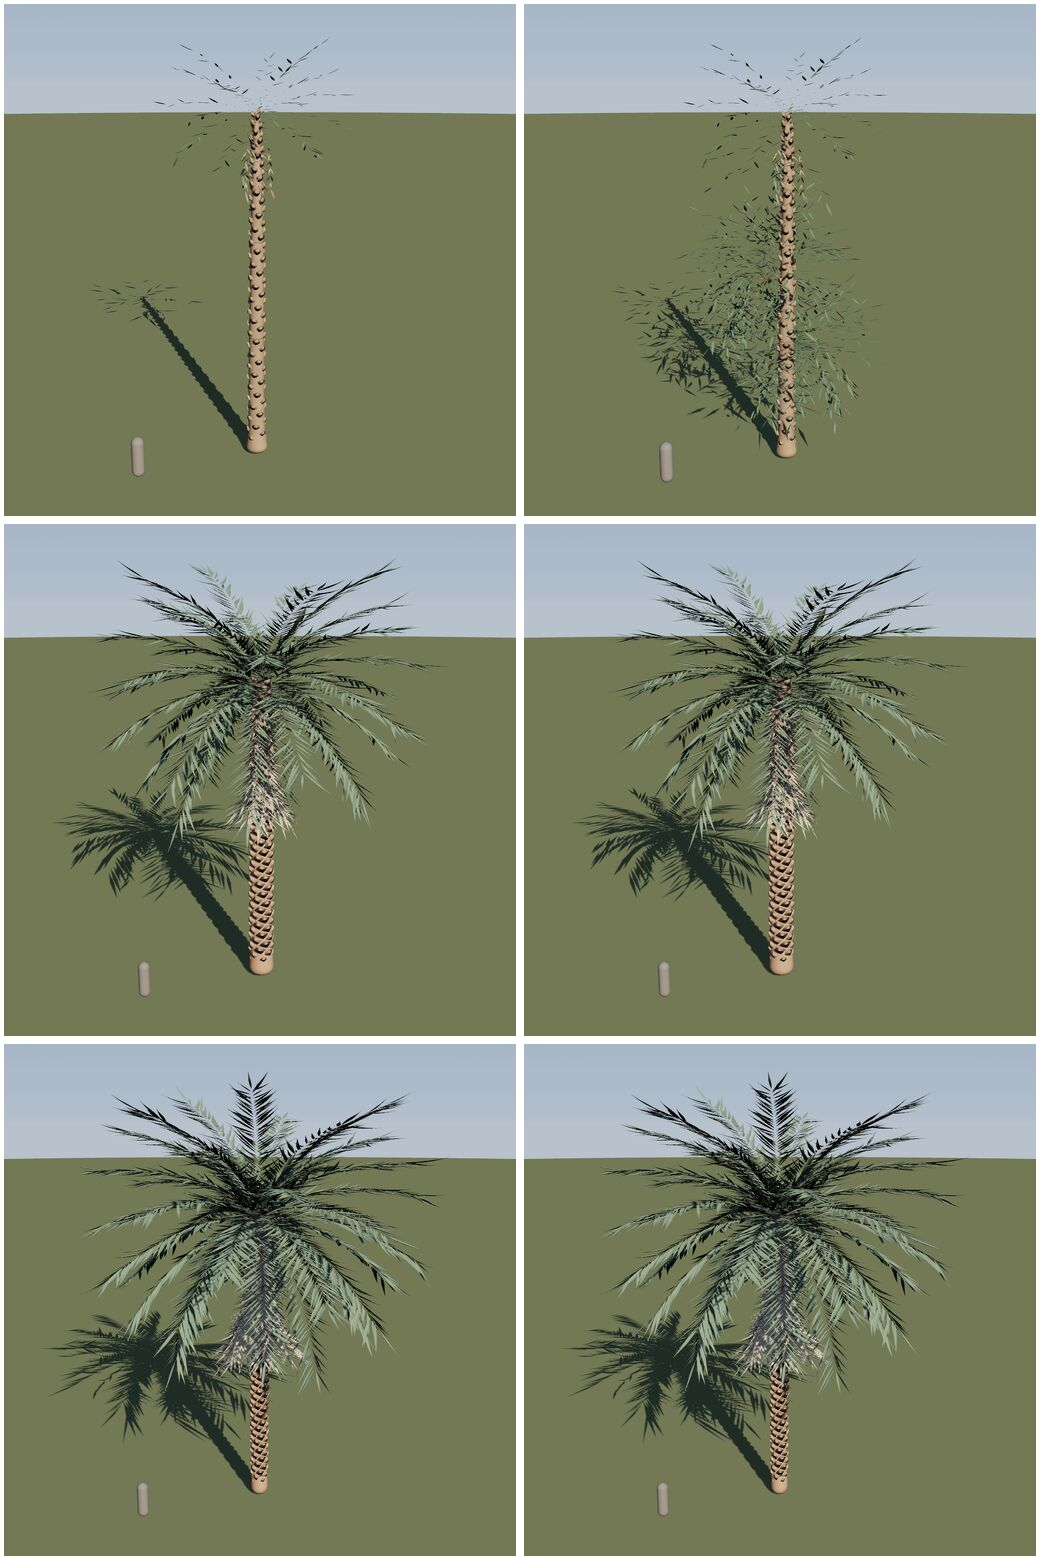
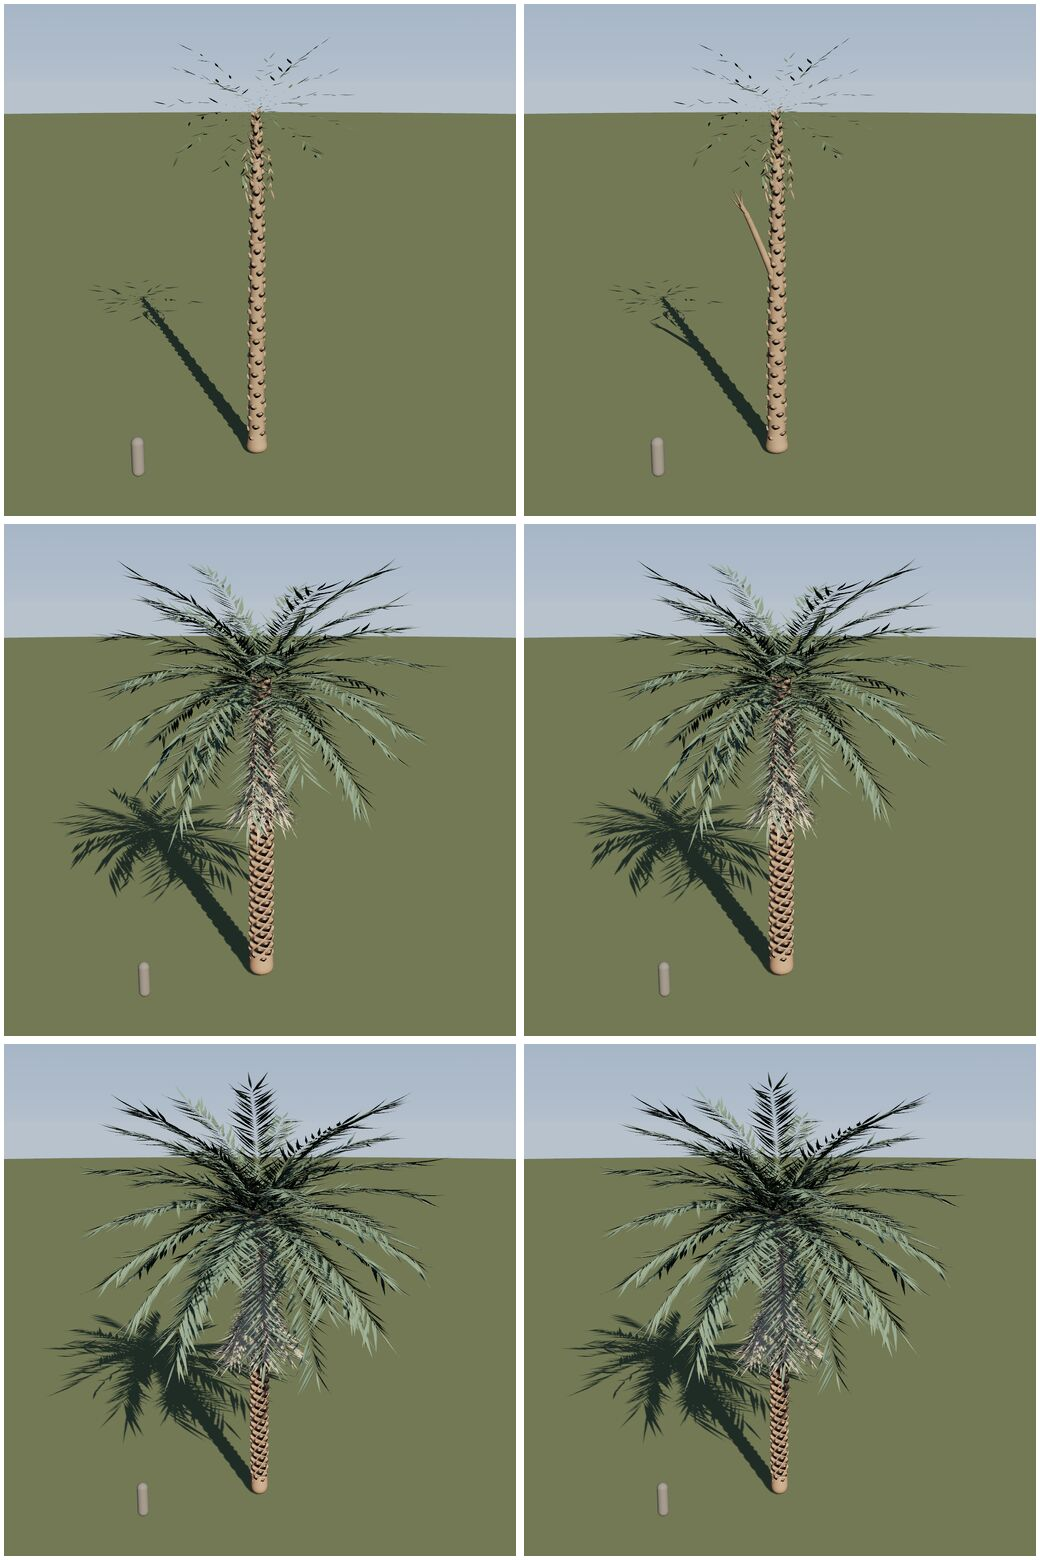
test: the host's rulings on three walk properties under fn-299 (2026-10-21)
The walk to the palm keeps its middle within its ends (superseding the
smaller-than-either clause). The grown-count example moves to t = 0.8,
where a scan finds it binding. The oak-to-birch exception at 80 is
refreshed to the measured 3,961,379 kept.

Task: fn-299-a-walk-frame-grows-within-its-ends.3

diff --git a/crates/telperion-core/tests/space_walks.rs b/crates/telperion-core/tests/space_walks.rs
@@ -119,19 +119,21 @@ fn a_walk_between_branching_species_keeps_its_ends_size_at_40_and_80() {
 }
 
 /// Host decision (2026-10-08, option A): kept phytomers do not bound grown
-/// ones, since a blend can shed a larger share than either end. Three
-/// quarters of the way from the beech to the spruce at 80, the grown count
-/// binds while the kept one is 5 % under the ends' mean. (Before fn-231 the
+/// ones, since a blend can shed a larger share than either end. Four
+/// fifths of the way from the beech to the spruce at 80, the grown count
+/// binds while the kept one is 1.4 % under the ends' mean. (Before fn-231 the
 /// case was the oak to the spruce, predicted to grow 21.7M phytomers sized
-/// on kept alone; the continuous walk puts that point under its ends.)
+/// on kept alone; the continuous walk puts that point under its ends. Until
+/// fn-299's timing rule (host, 2026-10-21) it was t = 0.75, where the grown
+/// share is now 0.998; a scan in steps of 0.05 finds it binding at 0.8.)
 #[test]
 fn the_grown_count_binds_where_a_blend_sheds_more_than_its_ends() {
     let (a, b) = (
         at(Preset::EuropeanBeech, 80.0),
         at(Preset::NorwaySpruce, 80.0),
     );
-    let walked = blend::families(&a, &b, 0.75).unwrap();
-    let [kept_share, grown_share] = sizes(species(&walked), species(&a), species(&b), 0.75, 80);
+    let walked = blend::families(&a, &b, 0.8).unwrap();
+    let [kept_share, grown_share] = sizes(species(&walked), species(&a), species(&b), 0.8, 80);
     assert!(
         (grown_share - 1.0).abs() < 1e-9 && kept_share < 0.99,
         "{kept_share} {grown_share}"
@@ -219,8 +221,10 @@ fn converges(p: Preset, q: Preset, age: u32) -> Vec<String> {
 
 /// Host decision 1 (2026-10-08): the factor only shrinks. A walk to the
 /// date palm, whose size is fronds and not laterals, is predicted below
-/// its ends' mean and keeps the engine's walk as it is; at its middle it is
-/// smaller than either end, a known property and not a defect.
+/// its ends' mean and keeps the engine's walk as it is. Its middle keeps a
+/// count within its ends' (fn-299, host 2026-10-21), which supersedes the
+/// old clause that the middle was smaller than either end: that was the
+/// overshoot below the ends fn-299 removes.
 #[test]
 fn a_walk_to_the_palm_is_never_grown_to_its_ends_size() {
     let age = 40;
@@ -233,7 +237,14 @@ fn a_walk_to_the_palm_is_never_grown_to_its_ends_size() {
     }
     let beech = at(Preset::EuropeanBeech, 40.0);
     let middle = kept(species(&blend::families(&beech, &palm, 0.5).unwrap()), age);
-    assert!(middle < kept(species(&palm), age), "{middle}");
+    let ends = [kept(species(&beech), age), kept(species(&palm), age)];
+    println!("beech {} middle {middle} palm {}", ends[0], ends[1]);
+    assert!(
+        ends[0].min(ends[1]) <= middle && middle <= ends[0].max(ends[1]),
+        "beech {} middle {middle} palm {}",
+        ends[0],
+        ends[1]
+    );
 }
 
 /// Host decision 2: a two-way walk is the N = 2 point, and weights that name

diff --git a/crates/telperion-core/tests/walk_sizes.rs b/crates/telperion-core/tests/walk_sizes.rs
@@ -51,7 +51,9 @@ const EXCEPTIONS: [Exception; 8] = [
         seed: 7,
         t: 0.01,
         band: [(1_423_308.0, 3_280_249.0), (7_998_959.0, 16_488_620.0)],
-        measured: [3_944_536.0, 18_138_622.0],
+        // Kept re-measured after fn-299's timing rule moved it from
+        // 3,944,536 (host, 2026-10-21).
+        measured: [3_961_379.0, 18_138_622.0],
     },
     Exception {
         walk: (Oak, Ordinary),

diff --git a/.flow/evidence/fn-299-a-walk-frame-grows-within-its-ends/T3.md b/.flow/evidence/fn-299-a-walk-frame-grows-within-its-ends/T3.md
@@ -44,3 +44,20 @@ These suites are green: `telperion-space` lib (102), `blend_reach` (5), `walks` 
 - `space_walks::a_walk_to_the_palm_is_never_grown_to_its_ends_size` now fails on its second assertion (line 236). Beech to palm at 40, t = 0.5, keeps 766.35 phytomers, no longer under the palm's own kept count. The test prints only the frame's count, not the palm's. Its first assertion, that the oak-to-palm frame stays unscaled, passes again.
 - `space_walks::the_grown_count_binds_where_a_blend_sheds_more_than_its_ends`: at beech to spruce at 80 and t = 0.75 the grown share is 0.99818. The test requires 1 within 1e-9, and the kept share is 1.0000. Under full rule B it was 0.949.
 - `walk_sizes::the_teaser_frame_fits_and_the_named_exceptions_grow_no_further_out`: (Oak, Birch) at 80, seed 7, t = 0.01 keeps 3,961,379 phytomers. The base measured 3,944,536, so the frame keeps 16,843 more (+0.43 %) and sits further above the band's top of 3,280,249. Under full rule B it was 3,953,617.
+
+## After the host's rulings on failures 4 to 6 (measured, 2026-10-21 01:17)
+
+- **Failure 4.** The test keeps its first assertion (the walk to the palm is not resized) and now checks that the middle lies within its ends. Beech at 40 keeps 180,095.85, the middle 766.35 and the palm 480, so the middle lies within its ends.
+- **Failure 5.** A scan of beech to spruce at 80 in steps of 0.05 (`raw/scan.log`, scratch `raw/fn299_scan.rs.scratch`, predictions only) finds the grown count binding at t = 0.80 (kept 0.986359, grown 1 within 1e-9) and at t = 0.85 (kept 0.988646). The example moves to t = 0.80. Spruce to the ordinary tree binds at every grid point.
+- **Failure 6.** The (Oak, Birch) exception at 80, seed 7, t = 0.01 is refreshed to the measured 3,961,379 kept, with fn-299 named in its comment.
+- **Focused suites, all green** (`raw/final-focused.log`): `blend_reach` 5, `walks` 12, `catalogue_identity` 5 (the re-pin holds), `space_walks` 7, `units_bound` 3, `walk_law` 1, `walk_leaves` 3, `walk_sizes` 1, and `oak_to_palm_frames_build_on_the_device`.
+- **Ends.** All 36 end frames are again byte-identical to the base.
+
+## Stills after option 1 (viewed, all three; the sheet `oak-palm-base-vs-change.jpg` is replaced)
+
+- **t = 0.9 and t = 0.97:** byte-identical to the base.
+- **t = 0.5:** the leaf sleeve is gone. The frame matches the base except for one bare, leafless branch that rises from the middle of the trunk and ends in a small fork. **It looks slightly off:** it reads as a dead snag rather than as part of a tree halfway to the palm. It is a minor blemish, far smaller than the earlier sleeve, but a viewer would notice it.
+
+## The gate after the rulings (measured, 2026-10-21 01:30 to 02:10)
+
+`cargo test --profile ci --workspace --no-fail-fast` under `telperion-heavy 8 --threads 2`: 1,425 passed, 0 failed, 111 ignored, in 2,399 s (`raw/final-gate.log`).
